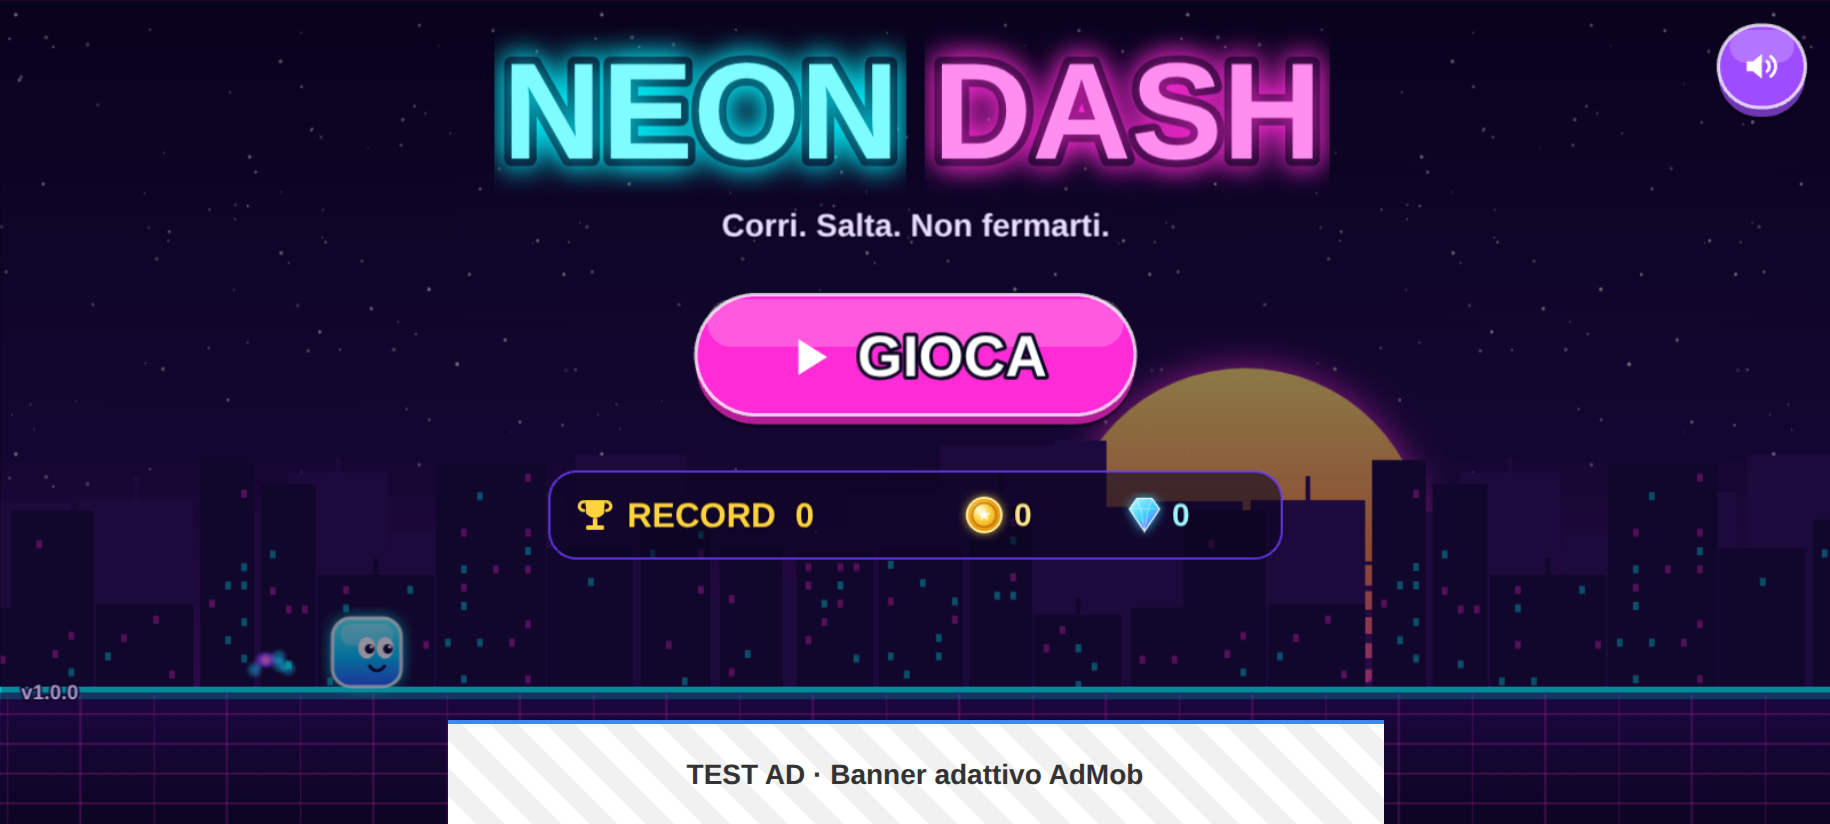
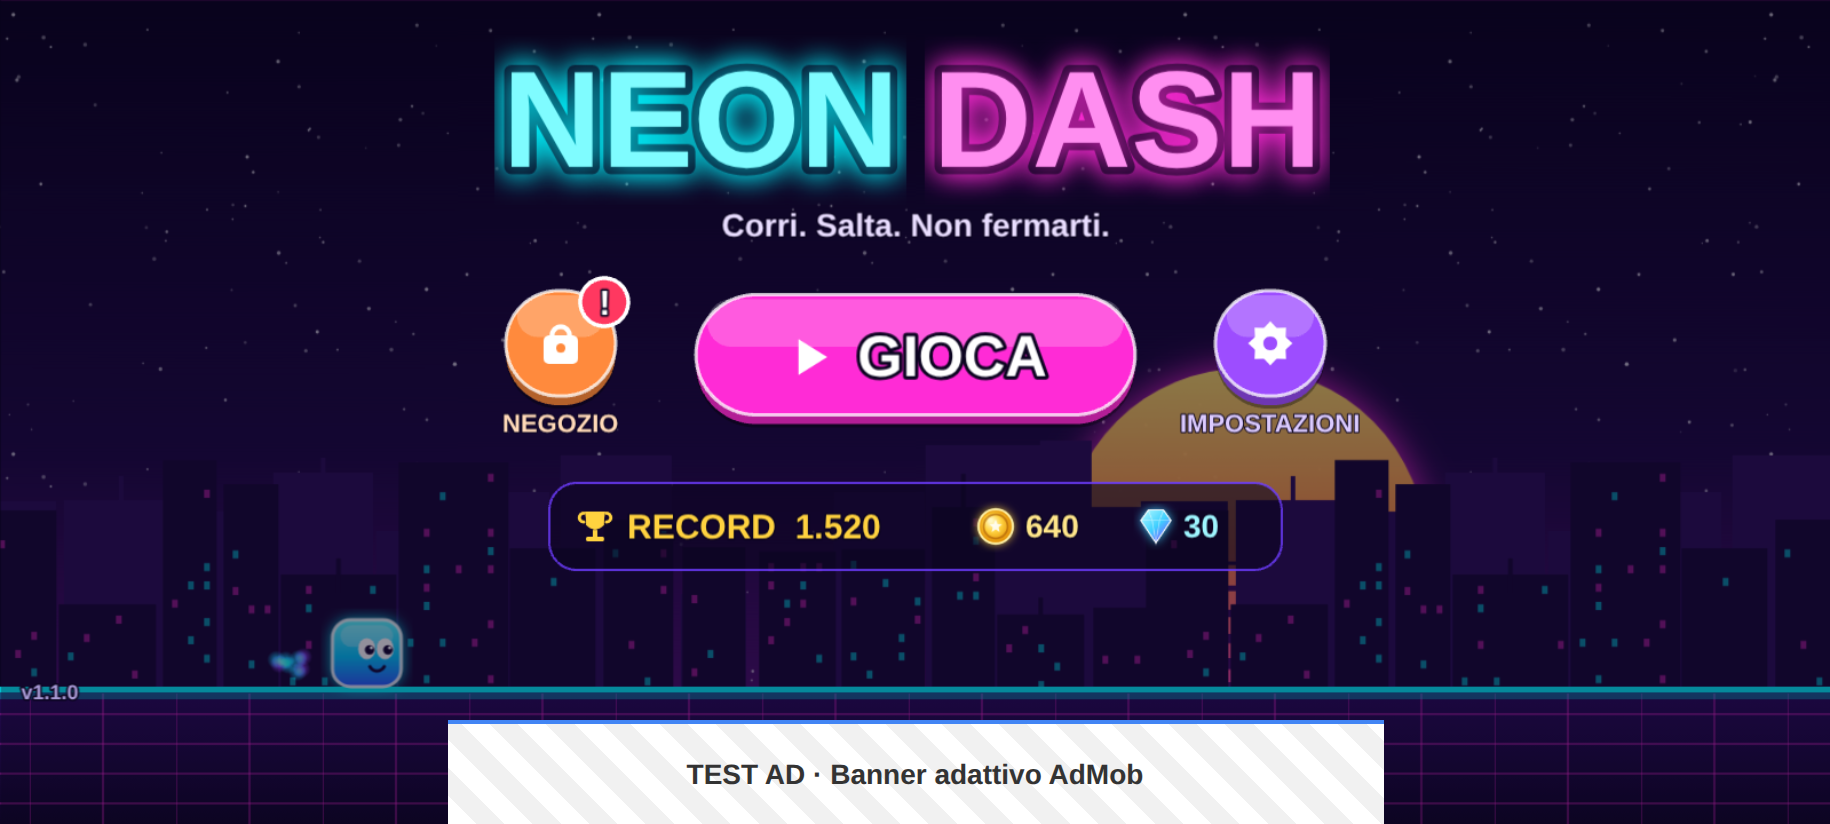
Prepare release builds and harden WebView compatibility
- Version 1.1.0: versionName/versionCode now come from package.json
  (build.gradle patched by configure-android.mjs), shown in the menu.
- Release signing from android/keystore.properties (git-ignored), with a
  keystore.properties.example; new CI job builds a signed AAB on v* tags
  from repository secrets.
- scripts/check-release.mjs (npm run release:check) refuses releases that
  still use AdMob test IDs or whose tag does not match package.json.
- Require Android System WebView 80+ (the bundle targets ES2020) and show
  a bilingual "update WebView" page instead of a black screen.
- SaveData no longer uses structuredClone (missing on old WebViews).
- README updated for the new features, CI jobs and release steps.

Claude-Session: https://claude.ai/code/session_01MLEYxGAkkzc4Sh164Z1jeT

diff --git a/public/webview-update.html b/public/webview-update.html
@@ -1,0 +1,23 @@
+<!doctype html>
+<html lang="it">
+  <head>
+    <meta charset="UTF-8" />
+    <meta name="viewport" content="width=device-width, initial-scale=1" />
+    <title>Neon Dash</title>
+    <style>
+      html, body { margin: 0; height: 100%; background: #07021a; color: #fff; font-family: Roboto, Arial, sans-serif; }
+      main { min-height: 100%; display: flex; flex-direction: column; align-items: center; justify-content: center; gap: 14px; padding: 24px; box-sizing: border-box; text-align: center; }
+      h1 { margin: 0; color: #7ffcff; text-shadow: 0 0 14px #00f5ff; letter-spacing: 4px; }
+      p { margin: 0; max-width: 560px; line-height: 1.4; }
+      a { display: inline-block; margin-top: 8px; padding: 14px 28px; border-radius: 40px; background: #ff2bd6; color: #fff; font-weight: bold; text-decoration: none; }
+    </style>
+  </head>
+  <body>
+    <main>
+      <h1>NEON DASH</h1>
+      <p>Per giocare aggiorna <b>Android System WebView</b> dal Play Store.</p>
+      <p>To play, please update <b>Android System WebView</b> from the Play Store.</p>
+      <a href="market://details?id=com.google.android.webview">Play Store</a>
+    </main>
+  </body>
+</html>

diff --git a/src/services/SaveData.js b/src/services/SaveData.js
@@ -37,13 +37,15 @@ function defaultStorage() {
 }
 
 const toCount = (v) => (Number.isFinite(v) && v > 0 ? Math.floor(v) : 0);
+// JSON copy instead of structuredClone: older Android WebViews lack it.
+const clone = (o) => JSON.parse(JSON.stringify(o));
 const toBool = (v, fallback) => (typeof v === 'boolean' ? v : fallback);
 
 export class SaveData {
   constructor(storage = defaultStorage(), now = () => Date.now()) {
     this.storage = storage;
     this.now = now;
-    this.data = structuredClone(DEFAULTS);
+    this.data = clone(DEFAULTS);
     this.load();
   }
 
@@ -72,7 +74,7 @@ export class SaveData {
       };
     } catch {
       // Corrupted save: start fresh rather than crash.
-      this.data = structuredClone(DEFAULTS);
+      this.data = clone(DEFAULTS);
     }
     return this.data;
   }
@@ -181,6 +183,6 @@ export class SaveData {
   }
 
   snapshot() {
-    return structuredClone(this.data);
+    return clone(this.data);
   }
 }

diff --git a/src/scenes/MenuScene.js b/src/scenes/MenuScene.js
@@ -10,7 +10,8 @@ import { bannerReserve, bindLayout } from '../ui/layout.js';
 import { COLORS, glow, textStyle } from '../ui/theme.js';
 import { WorldRenderer } from '../ui/WorldRenderer.js';
 
-export const APP_VERSION = '1.1.0';
+/* global __APP_VERSION__ */
+export const APP_VERSION = typeof __APP_VERSION__ === 'string' ? __APP_VERSION__ : 'dev';
 
 /** Main menu: title, play / shop / settings, records, banner ad. */
 export class MenuScene extends Phaser.Scene {

diff --git a/vite.config.js b/vite.config.js
@@ -1,8 +1,14 @@
+import { readFileSync } from 'node:fs';
 import { defineConfig } from 'vite';
+
+const pkg = JSON.parse(readFileSync(new URL('./package.json', import.meta.url), 'utf8'));
 
 export default defineConfig({
   // Relative paths so the bundle also works when loaded from the Capacitor WebView.
   base: './',
+  define: {
+    __APP_VERSION__: JSON.stringify(pkg.version),
+  },
   build: {
     outDir: 'dist',
     target: 'es2020',

diff --git a/README.md b/README.md
@@ -1,11 +1,13 @@
 # Neon Dash
 
 Endless runner 2D in stile synthwave per Android, scritto in **HTML5/JavaScript con Phaser 3**, confezionato con **Capacitor 8** e monetizzato con **Google AdMob** (`@capacitor-community/admob`).
-Tutta la grafica e tutti i suoni sono generati proceduralmente (Canvas 2D e Web Audio): il gioco non dipende da alcun file di asset esterno.
+Grafica, effetti sonori e colonna sonora sono generati proceduralmente (Canvas 2D e Web Audio): il gioco non dipende da alcun file di asset esterno.
 
 | Menu | Gioco | Game Over |
 | --- | --- | --- |
 | ![Menu](docs/screenshots/menu.png) | ![Gioco](docs/screenshots/gameplay.png) | ![Game over](docs/screenshots/game-over.png) |
+| **Negozio** | **Record in pista** | **Impostazioni** |
+| ![Negozio](docs/screenshots/shop.png) | ![Record](docs/screenshots/record.png) | ![Impostazioni](docs/screenshots/settings.png) |
 
 ## Scelte di progetto
 
@@ -16,6 +18,7 @@ Tutta la grafica e tutti i suoni sono generati proceduralmente (Canvas 2D e Web 
 | Orientamento | **Landscape** (bloccato in `AndroidManifest.xml` con `sensorLandscape`) |
 | Nome app | Neon Dash |
 | App ID | `com.clementin0.neondash` (modificabile in `capacitor.config.json`) |
+| Lingue | Italiano e inglese (in base al dispositivo, modificabile nelle impostazioni) |
 
 ## Gameplay
 
@@ -23,9 +26,14 @@ Tutta la grafica e tutti i suoni sono generati proceduralmente (Canvas 2D e Web 
 - Ostacoli: spine, blocchi (puoi atterrarci sopra, ma colpirli di lato è fatale), seghe rotanti basse e alte (per quelle alte resta a terra) e burroni.
 - I pattern si sbloccano livello dopo livello (uno ogni 15 s) e la velocità sale con una rampa esponenziale da 430 a 1050 px/s. La distanza tra gli ostacoli è calcolata sulla fisica del salto, quindi ogni sequenza è superabile: nei test un bot sopravvive 3 minuti su 8 seed diversi.
 - Collezionabili: **monete** (+10), **gemme** (+50, raggiungibili col doppio salto), **scudo** (assorbe un colpo) e **magnete** (attira le monete per 8 s).
-- **Punteggio** = metri percorsi + bonus di monete e gemme. **High score**, monete e gemme totali, partite giocate e impostazione audio sono salvati in **LocalStorage**.
-- Gameloop completo: Menu principale (con una corsa demo giocata dall'IA sullo sfondo) → Gioco (HUD con punti, record, monete, gemme, power-up e pausa) → Pausa (riprendi con conto alla rovescia, ricomincia, menu, audio) → Game Over (riepilogo, **Continua**, **Rigioca**, **Menu**).
-- Tasto indietro di Android: mette in pausa / riprende / torna al menu / esce dall'app. Il gioco va in pausa da solo quando l'app passa in background.
+- **Punteggio** = metri percorsi + bonus di monete e gemme. In pista una bandiera verde **RECORD** segna la tua distanza migliore.
+- **Negozio**: 8 skin per il personaggio, acquistabili con monete (da 150 a 1.200) o gemme (25 e 60). Un badge nel menu avvisa quando puoi permetterti una skin nuova. La skin scelta si vede in gioco e nella corsa demo del menu.
+- **Impostazioni**: musica, effetti sonori, vibrazione, lingua e (se richiesto dal GDPR) modifica del consenso privacy. Si aprono dal menu e dalla pausa.
+- **Audio**: colonna sonora synthwave generata in tempo reale (più tranquilla nei menu, con batteria in gioco, abbassata in pausa) ed effetti sintetizzati.
+- **Vibrazione** (Capacitor Haptics) su morte, scudo, power-up e acquisti.
+- Salvataggio in **LocalStorage**: high score, distanza migliore, monete e gemme, partite giocate, skin, impostazioni.
+- Gameloop completo: Menu (con corsa demo giocata dall'IA) → Gioco (HUD con punti, record, monete, gemme, power-up e pausa) → Pausa (riprendi con conto alla rovescia, ricomincia, menu, impostazioni) → Game Over (riepilogo, **Continua**, **Rigioca**, **Menu**).
+- Tasto indietro di Android: chiude le impostazioni, mette in pausa / riprende, torna al menu, esce dall'app. Il gioco va in pausa da solo quando l'app passa in background.
 
 ## Monetizzazione (AdMob)
 
@@ -34,17 +42,17 @@ Tutti gli ID sono in un unico file: [`src/config/admob.config.js`](src/config/ad
 | Formato | Dove | Ad Unit ID di test |
 | --- | --- | --- |
 | App ID | `AndroidManifest.xml` (scritto dallo script) | `ca-app-pub-3940256099942544~3347511713` |
-| Banner adattivo | in basso nel **Menu** e nel **Game Over** (nascosto durante il gioco) | `ca-app-pub-3940256099942544/9214589741` |
+| Banner adattivo | in basso nel **Menu** (e nel Negozio) e nel **Game Over**; nascosto durante il gioco | `ca-app-pub-3940256099942544/9214589741` |
 | Interstitial | ogni **3 partite completate** | `ca-app-pub-3940256099942544/1033173712` |
-| Rewarded | pulsante **Continua** nel Game Over: un revive per partita | `ca-app-pub-3940256099942544/5224354917` |
+| Rewarded | **Continua** nel Game Over (un revive per partita) e **+50 monete** nel Negozio (ogni 3 minuti) | `ca-app-pub-3940256099942544/5224354917` |
 
 Dettagli di implementazione ([`src/services/AdService.js`](src/services/AdService.js)):
 
-- **Consenso GDPR (UMP)**: prima di inizializzare l'SDK viene raccolto il consenso. Se richiesto, nel menu compare il pulsante privacy.
+- **Consenso GDPR (UMP)**: prima di inizializzare l'SDK viene raccolto il consenso. Il modulo privacy resta raggiungibile dalle impostazioni.
 - **Interstitial**: una partita conta come "completata" quando il giocatore lascia il Game Over (Rigioca o Menu), così l'annuncio non interrompe mai l'offerta di Continua. Se alla terza partita l'annuncio non è ancora caricato, viene mostrato alla partita successiva.
-- **Rewarded**: su Android `showRewardVideoAd()` si risolve solo quando la ricompensa viene ottenuta. Per questo il servizio usa gli eventi `Rewarded` e `Dismissed` (con un breve margine per una ricompensa che arriva in ritardo) e un timeout di sicurezza. Il revive viene concesso solo con la ricompensa effettivamente ottenuta: rimuove gli ostacoli vicini, ripristina il terreno, dà 2,5 s di invulnerabilità e fa partire un conto alla rovescia.
-- Il layout di Menu e Game Over lascia libero lo spazio del banner, usando l'altezza reale comunicata dall'evento `bannerAdSizeChanged`.
-- Durante gli annunci a schermo intero l'audio del gioco va in pausa. Ogni errore dell'SDK viene intercettato e non blocca mai il gioco.
+- **Rewarded**: su Android `showRewardVideoAd()` si risolve solo quando la ricompensa viene ottenuta. Per questo il servizio usa gli eventi `Rewarded` e `Dismissed` (con un breve margine per una ricompensa che arriva in ritardo) e un timeout di sicurezza. La ricompensa viene concessa solo se il video è stato visto davvero. Il revive rimuove gli ostacoli vicini, ripristina il terreno, dà 2,5 s di invulnerabilità e fa partire un conto alla rovescia.
+- Il layout di Menu, Negozio, Impostazioni e Game Over lascia libero lo spazio del banner, usando l'altezza reale comunicata dall'evento `bannerAdSizeChanged`.
+- Durante gli annunci a schermo intero musica ed effetti vanno in pausa. Ogni errore dell'SDK viene intercettato e non blocca mai il gioco.
 - Nel browser (`npm run dev`) un **mock** ([`MockAdMob.js`](src/services/MockAdMob.js)) simula banner, interstitial e video con ricompensa, così si può provare l'intero flusso senza dispositivo.
 
 ## Struttura
@@ -53,20 +61,24 @@ Dettagli di implementazione ([`src/services/AdService.js`](src/services/AdServic
 src/
   config/admob.config.js    ID AdMob (test/produzione) e regole di frequenza
   config/game.config.js     fisica, velocità, punteggi, power-up
+  config/skins.js           skin del negozio e monete gratuite
+  i18n.js                   testi in italiano e inglese
   logic/                    simulazione pura (testabile in Node, senza Phaser)
     RunnerWorld.js          scorrimento, fisica, collisioni, pickup, revive
     Spawner.js              pattern di ostacoli e monete
     Difficulty.js           rampa di velocità, livelli, distanze sicure
     ScoreManager.js         punteggio della partita
     Autopilot.js            IA per la demo del menu e i test
-  services/                 AdService, MockAdMob, SaveData (LocalStorage), Sfx (Web Audio), Platform (Capacitor App)
-  scenes/                   Boot, Menu, Game, Pause, GameOver
-  ui/                       texture procedurali, bottoni, HUD, sfondo parallax, renderer del mondo
+  services/                 AdService, MockAdMob, SaveData (LocalStorage), Sfx e Music (Web Audio),
+                            Haptics, Platform (tasto indietro, background)
+  scenes/                   Boot, Menu, Shop, Game, Pause, GameOver, Settings
+  ui/                       texture procedurali, bottoni, interruttori, HUD, sfondo parallax, renderer del mondo
 tests/                      test unitari Vitest
 scripts/
   verify-runtime.mjs        test end-to-end nel browser headless
   configure-android.mjs     patch idempotenti del progetto Android
   generate-android-assets.mjs  icone, splash e grafiche per il Play Store
+  check-release.mjs         blocca una release con ID di test o versione sbagliata
 android/                    progetto nativo generato da `npx cap add android`
 store/                      icona 512×512 e feature graphic 1024×500 per il Play Store
 ```
@@ -76,14 +88,24 @@ store/                      icona 512×512 e feature graphic 1024×500 per il Pl
 ```bash
 npm install            # dipendenze
 npm run dev            # gioco nel browser con hot reload (annunci simulati)
-npm test               # 68 test unitari (logica, punteggio, salvataggi, trigger degli annunci)
+npm test               # 77 test unitari (logica, punteggio, salvataggi, negozio, lingue, trigger degli annunci)
 npm run build          # bundle web di produzione in dist/
 npm run verify         # gioca la build in Chromium headless e verifica tutto il flusso
 npm run cap:sync       # build + npx cap sync android + configurazione Android
 npm run cap:open       # apre il progetto in Android Studio
+npm run release:check  # controlla che la release non usi gli ID AdMob di test
 ```
 
-`npm run verify` emula un telefono in landscape con touch e controlla 20 punti: avvio, banner nel menu, banner nascosto in gioco, salto, punteggio, pausa/ripresa, high score in LocalStorage, revive con video, una sola seconda possibilità per partita, interstitial alla terza partita completata e assenza di errori in console. Gli screenshot finiscono in `verify-output/`.
+`npm run verify` emula un telefono in landscape con touch e controlla 27 punti. Tra questi:
+- avvio e banner nel menu, banner nascosto in gioco;
+- salto, punteggio, pausa e ripresa;
+- high score in LocalStorage;
+- revive con video, una sola seconda possibilità per partita, interstitial alla terza partita completata;
+- impostazioni e cambio lingua;
+- acquisto di una skin e +50 monete con video;
+- musica attiva in gioco e assenza di errori in console.
+
+Gli screenshot finiscono in `verify-output/`.
 
 ## Build Android
 
@@ -94,18 +116,27 @@ npm run cap:sync
 cd android && ./gradlew assembleDebug     # APK in android/app/build/outputs/apk/debug/
 ```
 
-La GitHub Action [`.github/workflows/android.yml`](.github/workflows/android.yml) esegue test, build, verifica runtime e `assembleDebug` a ogni push, e pubblica l'APK di debug come artifact.
+`versionName` e `versionCode` vengono dal campo `version` di `package.json` (1.1.0 → versionCode 10100).
+
+La GitHub Action [`.github/workflows/android.yml`](.github/workflows/android.yml) ha tre job:
+
+| Job | Quando | Cosa fa |
+| --- | --- | --- |
+| `web` | a ogni push | test, build e verifica runtime |
+| `android` | a ogni push | `cap sync` + `assembleDebug`, pubblica l'APK di debug come artifact |
+| `release` | push di un tag `v*` | AAB firmato per il Play Store |
 
 ## Pubblicazione sul Play Store
 
-1. Nella console AdMob crea l'app e i tre blocchi di annunci, poi incolla gli ID in `PRODUCTION_IDS` e imposta `USE_TEST_ADS = false` in `src/config/admob.config.js`. Finché gli ID sono segnaposto, il gioco continua a usare quelli di test e `npm run android:configure` si rifiuta di procedere.
+1. Nella console AdMob crea l'app e i tre blocchi di annunci, poi incolla gli ID in `PRODUCTION_IDS` e imposta `USE_TEST_ADS = false` in `src/config/admob.config.js`. Finché gli ID sono segnaposto, il gioco continua a usare quelli di test, e `npm run android:configure` e `npm run release:check` si rifiutano di procedere.
 2. Configura il messaggio GDPR in AdMob (Privacy e messaggi) e pubblica `app-ads.txt` sul sito dello sviluppatore.
-3. `npm run cap:sync`, poi genera l'AAB firmato con Android Studio (*Build → Generate Signed App Bundle*) oppure con `./gradlew bundleRelease` e una signing config.
-4. Nella Play Console dichiara che l'app contiene annunci, compila la sezione *Sicurezza dei dati* (l'SDK AdMob raccoglie l'Advertising ID) e indica l'URL della privacy policy.
-5. Grafiche pronte in `store/`. Per rigenerare icone e splash: `node scripts/generate-android-assets.mjs`.
+3. Crea la chiave di firma: `keytool -genkey -v -keystore android/neondash-release.jks -alias neondash -keyalg RSA -keysize 2048 -validity 10000`. Poi copia `android/keystore.properties.example` in `android/keystore.properties` (ignorato da git) e inserisci le password.
+4. Genera il bundle: `npm run cap:sync && cd android && ./gradlew bundleRelease`. In alternativa, aggiungi su GitHub i secret `ANDROID_KEYSTORE_BASE64` (il `.jks` in base64), `ANDROID_KEYSTORE_PASSWORD`, `ANDROID_KEY_ALIAS` e `ANDROID_KEY_PASSWORD`, aggiorna `version` in `package.json` e fai push del tag `v<versione>`: il job `release` produce l'AAB firmato.
+5. Nella Play Console dichiara che l'app contiene annunci, compila la sezione *Sicurezza dei dati* (l'SDK AdMob raccoglie l'Advertising ID) e indica l'URL della privacy policy. Le grafiche sono pronte in `store/`; per rigenerare icone e splash usa `node scripts/generate-android-assets.mjs`.
 
 ## Note tecniche
 
 - Risoluzione base 1280×720 con `Phaser.Scale.EXPAND`: il canvas riempie qualsiasi rapporto d'aspetto (18:9, 20:9, tablet) senza bande nere e l'interfaccia si ancora ai bordi.
 - Schermo intero immersivo (barre di sistema nascoste, riapplicato dopo gli annunci) in `MainActivity.java`. Sfondo scuro su splash e finestra, per evitare il flash bianco all'avvio.
 - La logica di gioco (`src/logic`) non dipende da Phaser: le scene si limitano a disegnarne lo stato. Per questo fisica, collisioni, punteggio e revive sono coperti da test deterministici in Node.
+- Le scene Phaser vengono riutilizzate tra una visita e l'altra: lo stato di ogni scena viene azzerato in `init()` e i listener vengono rimossi allo `shutdown`.
